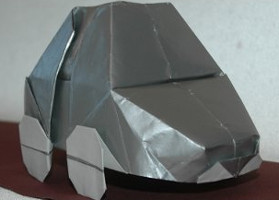
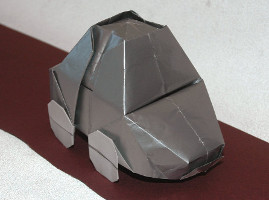
Adds images to carocha post

diff --git a/_posts/2016-01-10-carro.md b/_posts/2016-01-10-carro.md
@@ -1,14 +1,14 @@
 ---
 layout: diagrama
 title: Carro (VW Carocha ou VW Fusca)
-image: /img/carocha_thumb.jpg
+image: img/carocha_thumb.jpg
 category: Objectos
 ---
 
 O famoso Carocha (em Portugal) ou Fusca (no Brasil). É um modelo já complexo, mas o diagrama é fácil de seguir. Aconselho a usar um papel metalizado mas com cor diferente no verso para dar o efeito de carro.
 
-![Carro](/img/carocha.jpg)
+![carro](img/carocha2.jpg)
 
-[O diagrama está disponivel aqui](/img/carocha.pdf)
+![Carro](img/carocha.jpg)
 
-Precisa de instalar o [adobe acrobat reader](http://get.adobe.com/br/reader/) (ou outro leitor de ficheiros pdf) para ver o diagrama.
+[O diagrama está disponivel aqui](img/carocha.pdf)
